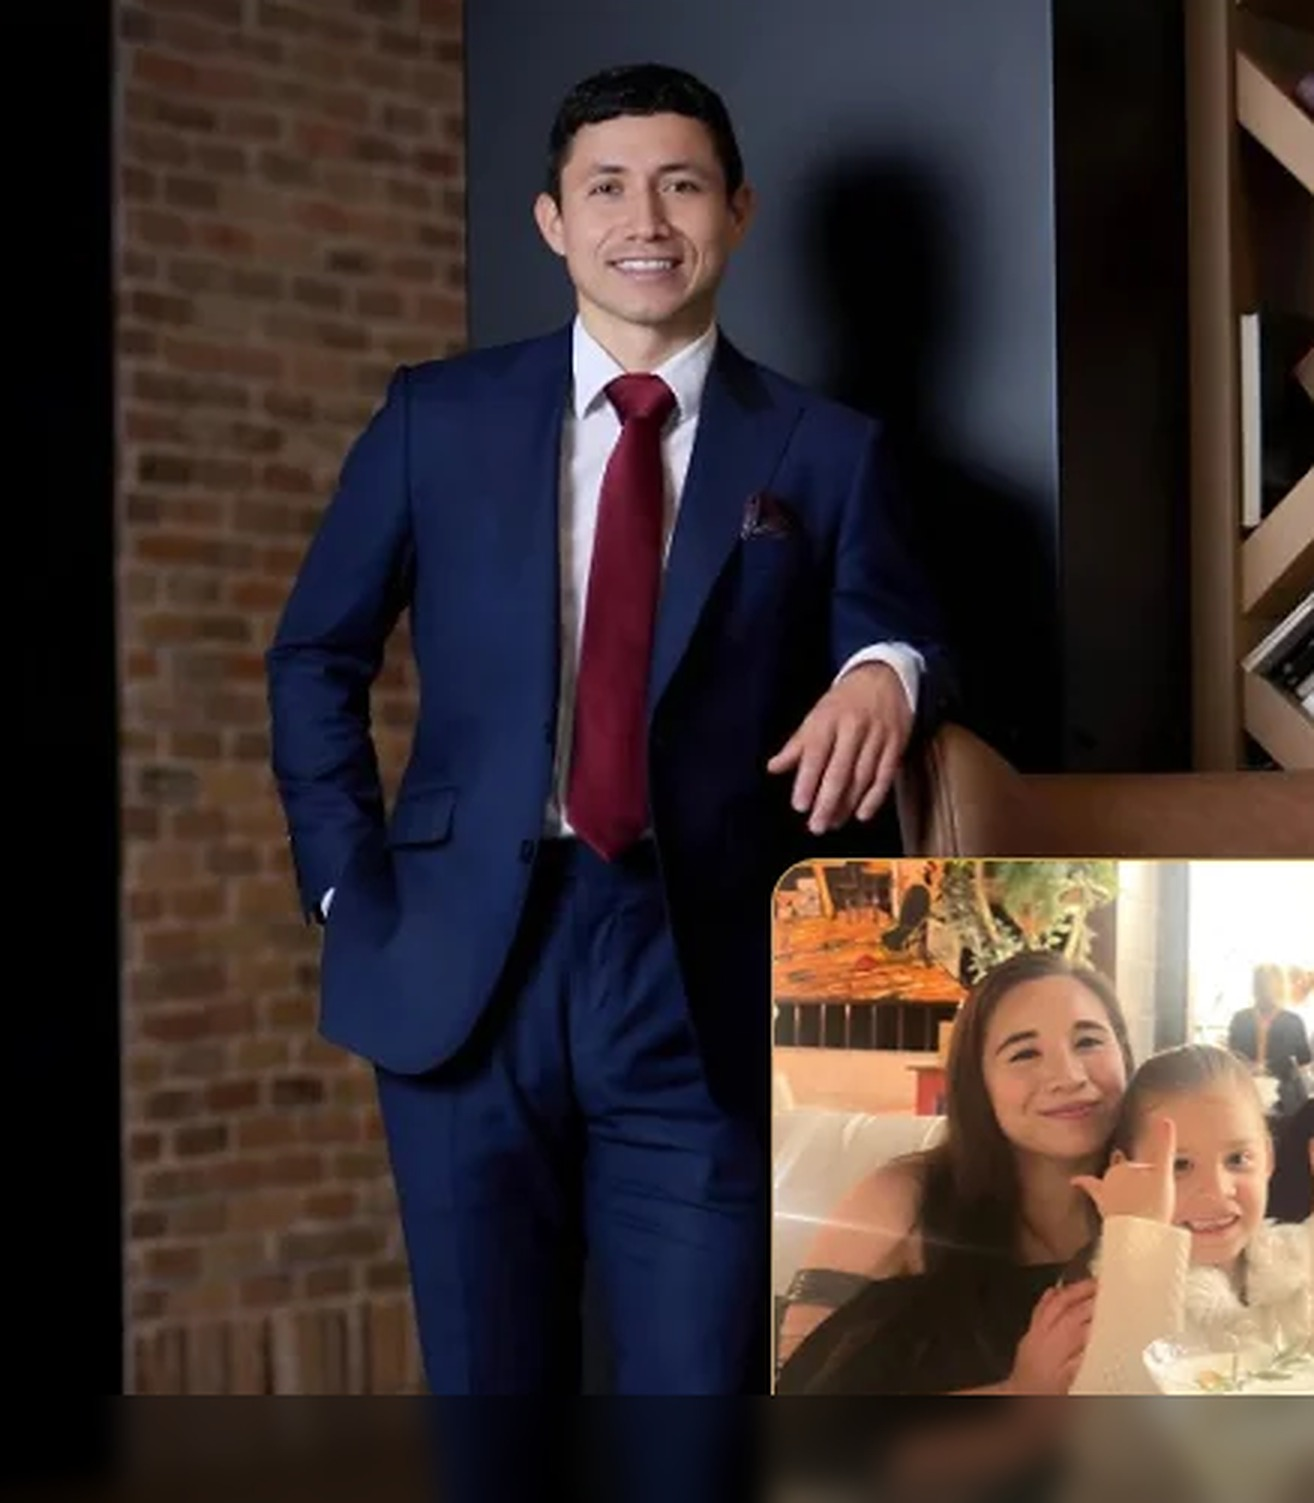
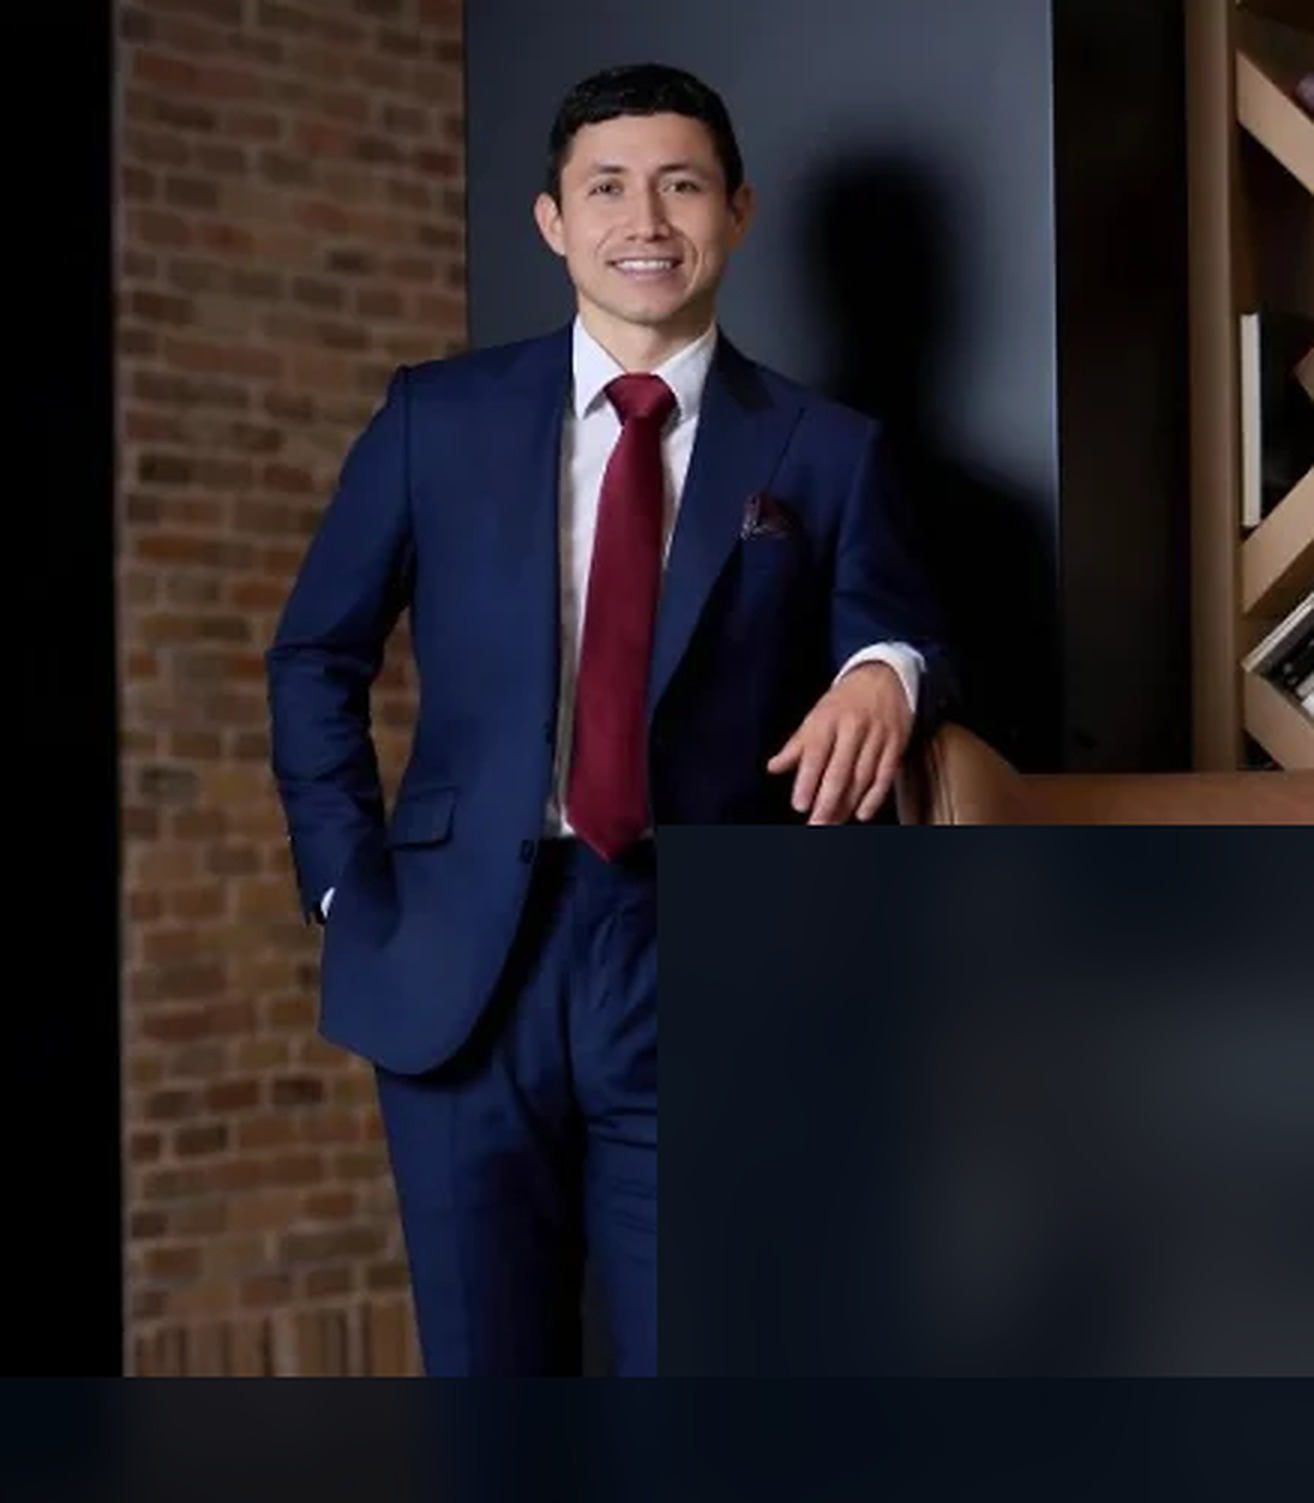
Remove hidden duplicate founder collage photo

Changed region(s): [[0.468, 0.5509, 1.0, 1.0], [0.0936, 0.9182, 0.3432, 0.9488]]

diff --git a/site-v2/public/assets/ASSET_NOTES.md b/site-v2/public/assets/ASSET_NOTES.md
@@ -7,5 +7,5 @@
 - `old-site/testimonials/videos/testimonial-01.mp4` through `old-site/testimonials/videos/testimonial-06.mp4` - web-optimized 960x540 MP4 testimonial videos transcoded on 2026-07-03 from old-site sources `video1.mp4`, `video2.mp4`, `video3.mp4`, `video4.mp4`, `video7.mp4`, and `video5.mp4`.
 - `old-site/reviews/google-rating-badge.svg`, `old-site/reviews/google-review-strip.png`, and `old-site/reviews/google-review-card.png` - HeirRight old-site Google Business Profile rating and review graphics from `wp-content/uploads/2025/04/`, applied to the testimonials section on 2026-07-03.
 - `old-site/heritage/joshua-family.webp` - HeirRight old-site founder/family heritage image from `wp-content/uploads/2026/01/Group-1171281118-1.webp`, applied to the about section on 2026-07-03.
-- `old-site/heritage/joshua-founder-clean.jpg` - Wider founder crop generated from `old-site/heritage/joshua-family.webp` on 2026-07-08 with the baked decorative gold lower rim removed for the about-section portrait.
+- `old-site/heritage/joshua-founder-clean.jpg` - Wider founder crop generated from `old-site/heritage/joshua-family.webp` on 2026-07-08 with the baked decorative gold lower rim and duplicate family-photo region removed for the about-section portrait.
 - `suburban-aerial-breno-assis.jpg` - Unsplash photo by Breno Assis, downloaded for an earlier HeirRight public-site background on 2026-06-29.
